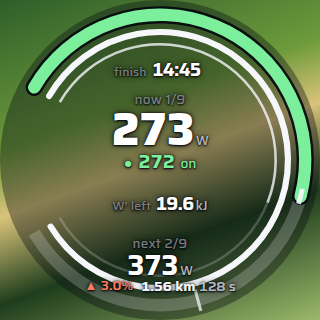
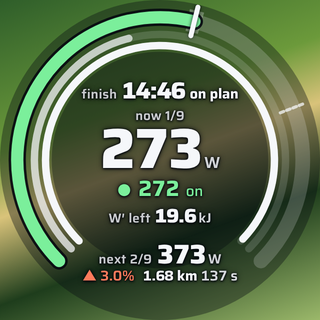
Dial HUD reworked: open at the bottom, a time-left ring, rows that fit
The dial is a 270° gauge open at the bottom (was 300° open at 9 o'clock),
so the next change sits in the opening clear of every ring, and every line
of text has its own row inside the inner ring, laid out in the SVG's
260-unit space (--t): the banner, finish, now, the target, live power,
W' and, in the opening, next and its meta. Nothing overlaps a ring from
260 px to 320 px and up; no text under 11 px.

Rings from the outside in: power (the live arc in the band colour over a
faint target band, the target as a bold tick, the next target as a
dashed tick, amber in the warning time); time left in the interval (new:
drains to the change by distance, amber in the warning time, full before
the start, empty after the finish; replaces the thin progress ring that
filled up); W' left (red under 25 %, the plan's floor an amber tick).

Contrast: a darker disc behind the numbers on the smoke and dark
backgrounds, brighter labels and units, larger and heavier type. Before
the start the strategy chip labels the plan time ("fastest 14:54") and
the banner keeps the countdown; the route name and the finish banner,
which the rows already say, are left out on the dial. The power ring is
cleared after the finish. Strip and stack are unchanged.

Screenshots in the README and the manifest's description follow; 0.8.0
release notes.

Claude-Session: https://claude.ai/code/session_01Jo5VirrpfoD8NoPUCr4GLp

diff --git a/pages/css/hud.css b/pages/css/hud.css
@@ -339,8 +339,15 @@ html[data-layout="stack"] .progress {
 html[data-layout="stack"] .progress-fill { width: 100%; height: 0; transition: height 500ms linear; }
 html[data-layout="stack"] .dial-svg { display: none; }
 
-/* ---- dial ---- */
+/* ---- dial ----
+ * A 270° gauge open at the bottom (the opening holds the next change, clear of every ring).
+ * Rings from the outside in: power (live arc in the band colour over the target band, the
+ * next target as a tick), time left in the interval (drains to the change, amber in the
+ * warning time), W' left (with the plan's floor; red under 25 %). Every line of text has its
+ * own row inside the inner ring, laid out in the SVG's 260-unit space: --t is one unit. */
 html[data-layout="dial"] .hud {
+  --t: calc(min(100cqw, 100cqh) / 260);
+  --f: calc(var(--t) * var(--hud-scale));
   aspect-ratio: 1;
   margin: auto;
   max-height: 100%;
@@ -359,41 +366,83 @@ html[data-layout="dial"] .hud-grid {
   position: absolute;
   inset: 0;
 }
-html[data-layout="dial"] .cell { position: absolute; align-items: center; text-align: center; }
+html[data-layout="dial"] .cell { position: absolute; align-items: center; text-align: center; transform: translateY(-50%); }
 html[data-layout="dial"] .cell + .cell { border: 0; }
-html[data-layout="dial"] .now { left: 22%; right: 22%; top: 29%; }
-html[data-layout="dial"] .now .num { font-size: 3.4em; }
-html[data-layout="dial"] .finish { left: 22%; right: 22%; top: 19%; flex-direction: row; gap: 0.4em; align-items: baseline; justify-content: center; }
-html[data-layout="dial"] .finish .num { font-size: 1.35em; }
-html[data-layout="dial"] .finish .label { font-size: max(11px, 0.9em); }
-html[data-layout="dial"] .next { left: 18%; right: 18%; bottom: 8%; }
-html[data-layout="dial"] .next .figure { justify-content: center; }
-html[data-layout="dial"] .next .meta { display: flex; gap: 0.6em; justify-content: center; }
-html[data-layout="dial"] .wbal { left: 20%; right: 20%; top: 61%; flex-direction: row; gap: 0.35em; align-items: baseline; justify-content: center; }
-html[data-layout="dial"] .wbal .figure .num { font-size: 1.35em; }
-html[data-layout="dial"] .wbal .bar { display: none; }
-html[data-layout="dial"] .wbal .label { font-size: max(11px, 0.9em); }
-html[data-layout="dial"] .wbal .sub { display: none; }
-html[data-layout="dial"] .wbal.low .sub { display: block; width: 100%; text-align: center; }
-html[data-layout="dial"] .progress { display: none; }
-html[data-layout="dial"] .tray { font-size: max(11px, 0.9em); left: 12%; right: 12%; bottom: 14%; border-radius: 0.5em; padding: 0.4em; }
-html[data-layout="dial"] .banner { position: absolute; top: 11%; left: 16%; right: 16%; padding: 0; text-align: center; font-size: max(11px, 0.9em); }
+html[data-layout="dial"] .label { color: rgba(245, 247, 250, 0.82); font-weight: 600; font-size: max(11px, calc(var(--f) * 10.5)); }
+html[data-layout="dial"] .unit { color: rgba(245, 247, 250, 0.85); font-weight: 600; font-size: max(11px, calc(var(--f) * 11)); }
 
-.dial-svg .track { fill: none; stroke: var(--ink-line); stroke-width: 10; }
+/* finish: one row near the top, "finish 14:46 on plan" */
+html[data-layout="dial"] .finish { top: calc(var(--t) * 74); left: calc(var(--t) * 50); right: calc(var(--t) * 50); flex-direction: row; gap: 0.35em; align-items: baseline; justify-content: center; }
+html[data-layout="dial"] .finish .num { font-size: max(11px, calc(var(--f) * 19)); font-weight: 800; }
+html[data-layout="dial"] .finish .delta { font-size: max(11px, calc(var(--f) * 11.5)); font-weight: 700; }
+
+/* now: the label, the target (the hero) and the live power under it */
+html[data-layout="dial"] .now { top: calc(var(--t) * 126); left: calc(var(--t) * 44); right: calc(var(--t) * 44); gap: calc(var(--t) * 1); }
+html[data-layout="dial"] .now .figure { line-height: 1; }
+html[data-layout="dial"] .now .num { font-size: max(11px, calc(var(--f) * 46)); line-height: 0.9; }
+html[data-layout="dial"] .now .unit { font-size: max(11px, calc(var(--f) * 13)); }
+html[data-layout="dial"] .now .live { font-size: max(11px, calc(var(--f) * 18)); }
+html[data-layout="dial"] .now .live .glyph { font-size: max(11px, calc(var(--f) * 13)); }
+html[data-layout="dial"] .now .live .word { font-size: max(11px, calc(var(--f) * 12)); }
+
+/* W' left: one row under the live power */
+html[data-layout="dial"] .wbal { top: calc(var(--t) * 176); left: calc(var(--t) * 52); right: calc(var(--t) * 52); flex-direction: row; gap: 0.3em; align-items: baseline; justify-content: center; }
+html[data-layout="dial"] .wbal .num { font-size: max(11px, calc(var(--f) * 16)); font-weight: 800; }
+html[data-layout="dial"] .wbal .bar { display: none; }
+html[data-layout="dial"] .wbal .sub { display: none; }
+html[data-layout="dial"] .wbal.low .sub { display: inline; font-size: max(11px, calc(var(--f) * 10)); color: var(--low); }
+
+/* next: in the opening at the bottom, two rows */
+html[data-layout="dial"] .next { top: calc(var(--t) * 214); left: calc(var(--t) * 34); right: calc(var(--t) * 34); flex-direction: row; flex-wrap: wrap; justify-content: center; align-items: baseline; column-gap: 0.35em; row-gap: calc(var(--t) * 1); }
+html[data-layout="dial"] .next .num { font-size: max(11px, calc(var(--f) * 22)); font-weight: 800; }
+html[data-layout="dial"] .next .figure { justify-content: center; }
+html[data-layout="dial"] .next .meta { flex-basis: 100%; display: flex; gap: 0.6em; justify-content: center; font-size: max(11px, calc(var(--f) * 11.5)); }
+html[data-layout="dial"] .next .grade, html[data-layout="dial"] .next .in { font-size: 1em; }
+html[data-layout="dial"] .next .in { color: rgba(245, 247, 250, 0.88); }
+
+html[data-layout="dial"] .vitals { display: none; }
+html[data-layout="dial"] .progress { display: none; }
+html[data-layout="dial"] .tray { font-size: max(11px, calc(var(--f) * 10)); left: 14%; right: 14%; bottom: 3%; border-radius: 0.5em; padding: 0.4em; }
+/* the banner (starts in, ready, finished, a length mismatch): a row above the finish */
+html[data-layout="dial"] .banner { position: absolute; top: calc(var(--t) * 51); left: calc(var(--t) * 76); right: calc(var(--t) * 76); padding: 0; text-align: center; font-size: max(11px, calc(var(--f) * 10)); color: rgba(245, 247, 250, 0.88); }
+html[data-layout="dial"] .banner .chip { display: none; }
+html[data-layout="dial"] .finish .chip {
+  pointer-events: auto;
+  padding: 0 0.55em;
+  font: inherit;
+  font-weight: 700;
+  color: var(--ink);
+  background: rgba(8, 12, 18, 0.55);
+  border: 1px solid rgba(245, 247, 250, 0.4);
+  border-radius: 1em;
+  cursor: pointer;
+}
+html[data-layout="dial"] .finish .chip:hover { border-color: var(--ink); }
+/* the route name and the finish banner repeat what the rows say: the dial has no room for them */
+html[data-layout="dial"] .banner .name { display: none; }
+html[data-layout="dial"] .hud[data-state="finished"] .banner { display: none; }
+
+/* the rings */
+.dial-svg .disc { fill: transparent; }
+html[data-bg="smoke"] .dial-svg .disc { fill: rgba(4, 8, 14, 0.34); }
+html[data-bg="dark"] .dial-svg .disc { fill: rgba(4, 8, 14, 0.2); }
+.dial-svg .track { fill: none; stroke: rgba(245, 247, 250, 0.2); stroke-width: 12; stroke-linecap: round; }
+.dial-svg .target-arc { fill: none; stroke: rgba(245, 247, 250, 0.3); stroke-width: 18; stroke-linecap: butt; }
+.dial-svg .target-tick { fill: none; stroke: var(--ink); stroke-width: 4; stroke-linecap: round; filter: drop-shadow(0 0 1.5px var(--halo)); }
 .dial-svg .under-stroke { fill: none; stroke: var(--halo); stroke-width: 14; stroke-linecap: round; }
 .dial-svg .live-arc { fill: none; stroke: var(--ink-2); stroke-width: 10; stroke-linecap: round; }
 .dial-svg .live-arc.band-under { stroke: var(--under); }
 .dial-svg .live-arc.band-on { stroke: var(--on); }
 .dial-svg .live-arc.band-over { stroke: var(--over); }
-.dial-svg .target-arc { fill: none; stroke: var(--ink); stroke-width: 4; opacity: 0.9; }
-.dial-svg .next-tick { fill: none; stroke: var(--ink-2); stroke-width: 2.5; }
-.hud.soon .dial-svg .next-tick { stroke: var(--soon); stroke-width: 3.5; }
-.dial-svg .wbal-track { fill: none; stroke: var(--ink-line); stroke-width: 5; }
-.dial-svg .wbal-arc { fill: none; stroke: var(--ink); stroke-width: 5; stroke-linecap: round; }
+.dial-svg .next-tick { fill: none; stroke: rgba(245, 247, 250, 0.75); stroke-width: 2.5; stroke-linecap: round; stroke-dasharray: 3 2.5; }
+.hud.soon .dial-svg .next-tick { stroke: var(--soon); stroke-width: 4; stroke-dasharray: none; }
+.dial-svg .time-track { fill: none; stroke: rgba(245, 247, 250, 0.16); stroke-width: 6; stroke-linecap: round; }
+.dial-svg .time-arc { fill: none; stroke: rgba(245, 247, 250, 0.7); stroke-width: 6; stroke-linecap: round; }
+.hud.soon .dial-svg .time-arc { stroke: var(--soon); }
+.dial-svg .wbal-track { fill: none; stroke: rgba(245, 247, 250, 0.16); stroke-width: 6; stroke-linecap: round; }
+.dial-svg .wbal-arc { fill: none; stroke: var(--ink); stroke-width: 6; stroke-linecap: round; }
 .dial-svg .wbal-arc.low { stroke: var(--low); }
-.dial-svg .wbal-floor { fill: none; stroke: var(--ink-2); stroke-width: 2; }
-.dial-svg .progress-track { fill: none; stroke: var(--ink-line); stroke-width: 2; }
-.dial-svg .progress-arc { fill: none; stroke: var(--ink-2); stroke-width: 2; }
+.dial-svg .wbal-floor { fill: none; stroke: var(--soon); stroke-width: 2.5; }
 
 /* vitals are shown where the layout has room and the setting is on: the stack, and a strip
  * at least 130 px tall; the dial has no room */

diff --git a/pages/hud-dial.html b/pages/hud-dial.html
@@ -30,16 +30,18 @@
 
     <main class="hud panel halo" id="hud" data-state="idle">
       <svg class="dial-svg" viewBox="0 0 260 260" role="presentation" aria-hidden="true">
+        <circle class="disc" cx="130" cy="130" r="88"></circle>
         <path class="track" id="dial-track" d=""></path>
+        <path class="target-arc" id="dial-target" d=""></path>
         <path class="under-stroke" id="dial-live-under" d=""></path>
         <path class="live-arc" id="dial-live" d=""></path>
-        <path class="target-arc" id="dial-target" d=""></path>
+        <path class="target-tick" id="dial-target-tick" d=""></path>
         <path class="next-tick" id="dial-next" d=""></path>
+        <path class="time-track" id="dial-time-track" d=""></path>
+        <path class="time-arc" id="dial-time" d=""></path>
         <path class="wbal-track" id="dial-wbal-track" d=""></path>
         <path class="wbal-arc" id="dial-wbal" d=""></path>
         <path class="wbal-floor" id="dial-wbal-floor" d=""></path>
-        <path class="progress-track" id="dial-progress-track" d=""></path>
-        <path class="progress-arc" id="dial-progress" d=""></path>
       </svg>
 
       <div class="hud-grid">

diff --git a/pages/hud-stack.html b/pages/hud-stack.html
@@ -30,16 +30,18 @@
 
     <main class="hud panel halo" id="hud" data-state="idle">
       <svg class="dial-svg" viewBox="0 0 260 260" role="presentation" aria-hidden="true">
+        <circle class="disc" cx="130" cy="130" r="88"></circle>
         <path class="track" id="dial-track" d=""></path>
+        <path class="target-arc" id="dial-target" d=""></path>
         <path class="under-stroke" id="dial-live-under" d=""></path>
         <path class="live-arc" id="dial-live" d=""></path>
-        <path class="target-arc" id="dial-target" d=""></path>
+        <path class="target-tick" id="dial-target-tick" d=""></path>
         <path class="next-tick" id="dial-next" d=""></path>
+        <path class="time-track" id="dial-time-track" d=""></path>
+        <path class="time-arc" id="dial-time" d=""></path>
         <path class="wbal-track" id="dial-wbal-track" d=""></path>
         <path class="wbal-arc" id="dial-wbal" d=""></path>
         <path class="wbal-floor" id="dial-wbal-floor" d=""></path>
-        <path class="progress-track" id="dial-progress-track" d=""></path>
-        <path class="progress-arc" id="dial-progress" d=""></path>
       </svg>
 
       <div class="hud-grid">

diff --git a/pages/hud.html b/pages/hud.html
@@ -30,16 +30,18 @@
 
     <main class="hud panel halo" id="hud" data-state="idle">
       <svg class="dial-svg" viewBox="0 0 260 260" role="presentation" aria-hidden="true">
+        <circle class="disc" cx="130" cy="130" r="88"></circle>
         <path class="track" id="dial-track" d=""></path>
+        <path class="target-arc" id="dial-target" d=""></path>
         <path class="under-stroke" id="dial-live-under" d=""></path>
         <path class="live-arc" id="dial-live" d=""></path>
-        <path class="target-arc" id="dial-target" d=""></path>
+        <path class="target-tick" id="dial-target-tick" d=""></path>
         <path class="next-tick" id="dial-next" d=""></path>
+        <path class="time-track" id="dial-time-track" d=""></path>
+        <path class="time-arc" id="dial-time" d=""></path>
         <path class="wbal-track" id="dial-wbal-track" d=""></path>
         <path class="wbal-arc" id="dial-wbal" d=""></path>
         <path class="wbal-floor" id="dial-wbal-floor" d=""></path>
-        <path class="progress-track" id="dial-progress-track" d=""></path>
-        <path class="progress-arc" id="dial-progress" d=""></path>
       </svg>
 
       <div class="hud-grid">

diff --git a/README.md b/README.md
@@ -25,7 +25,7 @@ Add any of these from Sauce's window menu (right-click the Sauce icon → Window
 | Window | What it is |
 |---|---|
 | **TT HUD: strip** | One line for the top of the screen (600 × 100): now, next, W′, finish. |
-| **TT HUD: dial** | A round gauge (320 × 320): live power against the target band on the ring, W′ on the inner ring, the next change below. |
+| **TT HUD: dial** | A round gauge (320 × 320) open at the bottom. Rings from the outside in: live power against the target (bold tick) and the next target (dashed tick); time left in the interval, draining to the change and amber in the warning time; W′ left with the plan's floor. Inside: the finish, the target, your live power and W′; the next change sits in the opening. |
 | **TT HUD: stack** | A narrow column for a screen edge (230 × 430). |
 | **TT interval list** | Every interval with where it ends, its target, time, gradient and W′, and how each one went. |
 | **TT field** | The riders of your event in standings order, with the gap at equal distance and the time you gain or lose on each. |

diff --git a/docs/releases/0.8.0.md b/docs/releases/0.8.0.md
@@ -25,6 +25,13 @@ older planner the mod loads codes exactly as 0.7 did and says linking is not off
 
 ## Changed
 
+- **The dial, reworked.** A 270° gauge open at the bottom, so the next change sits in the
+  opening clear of every ring, and each line of text has its own row inside the inner ring.
+  The middle ring is now the time left in the interval, draining to the change and amber in
+  the warning time (it was a thin progress ring that filled up). The target is a bold tick
+  on the power ring and the next target a dashed one; the W′ floor is an amber tick. A
+  darker disc behind the numbers (smoke and dark backgrounds), larger and heavier type, and
+  before the start the strategy chip sits by the plan time (*fastest 14:54*).
 - The library keeps ten plans (was five).
 - `page-check.mjs --probe` (the Sauce probe) and `--links` (the link states).
 
